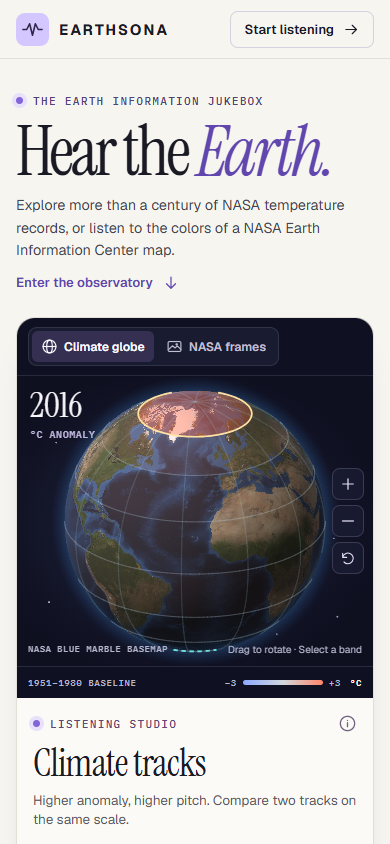
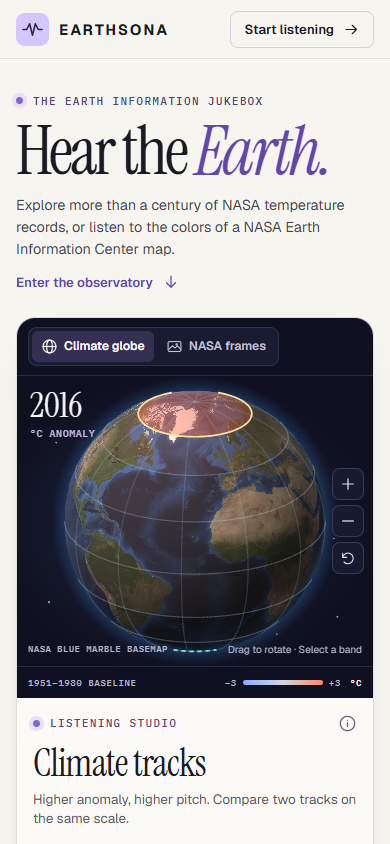
Fit the observatory on narrow mobile screens

diff --git a/tests/browser/observatory.spec.js b/tests/browser/observatory.spec.js
@@ -46,10 +46,12 @@ test('scans all three official NASA maps then plays a numeric observation', asyn
 });
 
 test('mobile layout and the missing-texture fallback keep data available', async ({ page }) => {
-  await page.setViewportSize({ width: 390, height: 844 });
+  await page.setViewportSize({ width: 320, height: 844 });
   await page.route('**/blue-marble-july-2004.webp', (route) => route.abort());
   await page.goto('/');
   await expect(page.getByText(/BASEMAP UNAVAILABLE/)).toBeVisible();
+  expect(await page.evaluate(() => document.documentElement.scrollWidth)).toBe(320);
+  await page.setViewportSize({ width: 390, height: 844 });
   expect(await page.evaluate(() => document.documentElement.scrollWidth)).toBe(390);
   await page.getByLabel('Primary track').selectOption('global');
   await expect(page.locator('#primary-value')).toHaveText('+1.19°C');

diff --git a/src/style.css b/src/style.css
@@ -194,7 +194,7 @@ footer { border-top: 1px solid var(--line); }
   .header-inner { height: 58px; }
   .header-inner nav { display: none; }
   .hero { grid-template-columns: 1fr; gap: 12px; padding-top: 29px; padding-bottom: 23px; }
-  .hero h1 { font-size: clamp(4.3rem, 13.5vw, 6.3rem); margin-top: 12px; }
+  .hero h1 { font-size: clamp(3.75rem, 17.5vw, 6.3rem); margin-top: 12px; }
   .hero-right { justify-self: start; max-width: 480px; }
   .hero-right p { font-size: .9rem; margin-bottom: 10px; }
   .workspace { grid-template-columns: 1fr; }

diff --git a/docs/TESTING.md b/docs/TESTING.md
@@ -21,10 +21,10 @@ To run the Playwright tests against an existing Chrome binary, set `EARTHSONA_CH
 | Unit tests | Verified shared pitch scale, clipping, silence for missing inputs, timing-independent pitch, frame stripe order, image masks, older layout support and invalid source rejection. |
 | Chrome interaction | Verified the landing view, exact 2016 polar comparison readings, keyboard globe selection, pointer drag, zoom/reset, chart and table, range and speed, play/pause/resume state, mute and switching to solo. |
 | Real frame scans | Decoded each shipped EIC image in Chromium, played the browser-generated scan, and verified the active stripe and frequency. 2023, 2024 and 2025 all yielded six valid notes. Checked the separate global annual reading. |
-| Mobile and fallback | Inspected a narrow layout at 390 CSS pixels. Verified tap selection, pinch zoom and page scrolling with emulated touch. Deliberately blocked the basemap asset and verified the banded fallback and numeric controls. |
+| Mobile and fallback | Verified the 320 and 390 CSS-pixel layouts fit without horizontal overflow. Inspected the 390-pixel rendering and verified tap selection, pinch zoom and page scrolling with emulated touch. Deliberately blocked the basemap asset and verified the banded fallback and numeric controls. |
 | Media | Captured the actual browser app and exported the screenshots in [`screenshots`](../screenshots/). The demo captures the running browser and its Web Audio output. |
 | Deployment | Ubuntu Chromium checks and GitHub Pages deployment passed in GitHub Actions. Both the app and the MP4 served over public HTTPS. Local interaction checks passed in Chrome and Edge. |
 
-During integration, the comparison label remained stale after selecting solo playback. The browser suite reproduced it, and the transport now refreshes whenever a selection changes. Source review also caught an image-decode delay before AudioContext activation and a dependency on the latest CSV year for frame selection. Playback unlocks synchronously on interaction, and the frame picker now initializes from its separate catalog.
+During integration, the comparison label remained stale after selecting solo playback. The browser suite reproduced it, and the transport now refreshes whenever a selection changes. The production viewport sweep found a 13-pixel title overflow at 320 CSS pixels, fixed by reducing the minimum title size. Source review also caught an image-decode delay before AudioContext activation and a dependency on the latest CSV year for frame selection. Playback unlocks synchronously on interaction, and the frame picker initializes from its separate catalog.
 
 The scope covers Chromium on desktop and touch emulation. Native iOS and Safari, subjective listening studies, and formal assistive-technology audits remain unverified.
